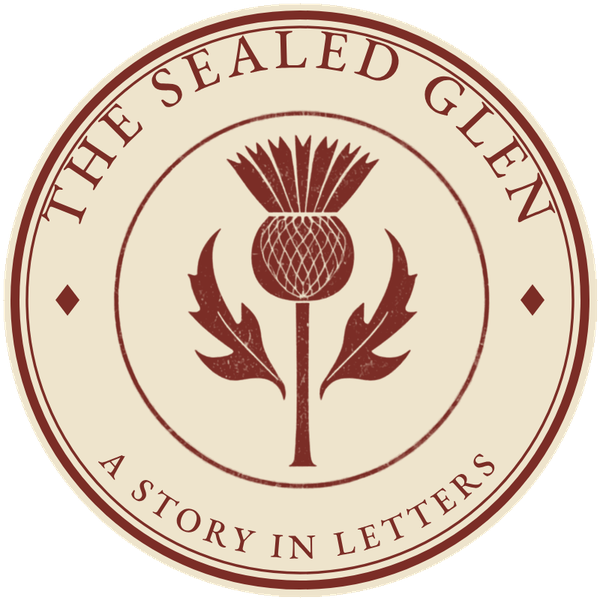
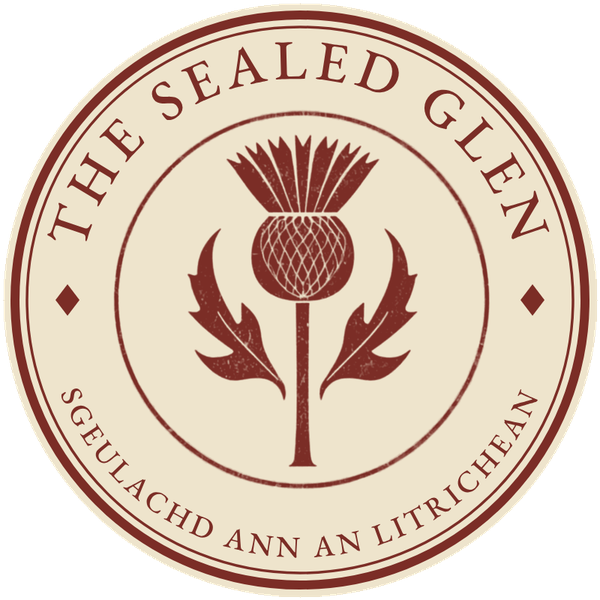
Seal v0.4: lower top text, Gaelic bottom line
Claude-Session: https://claude.ai/code/session_01SzL5mrw7CT4fDQuNJTCdEM

diff --git a/the-sealed-glen.html b/the-sealed-glen.html
@@ -39,7 +39,7 @@
       <p class="sg-endorse">A Knot &amp; Rune series by W. Kroboth</p>
       <p class="lead">A Highland story told the old way: in letters, one envelope a month, through your own mailbox. You read it as the people in it lived it, a little at a time, and never quite sure what the next post will bring.</p>
     </div>
-    <img class="sg-seal" src="assets/sealed-glen-seal.png" alt="The Sealed Glen seal: a Scottish thistle inside a ring reading The Sealed Glen, a story in letters" width="260" height="260">
+    <img class="sg-seal" src="assets/sealed-glen-seal.png" alt="The Sealed Glen seal: a Scottish thistle inside a ring reading The Sealed Glen and, in Gaelic, Sgeulachd ann an Litrichean (a story in letters)" width="260" height="260">
   </div>
 </section>
 

diff --git a/src/the-sealed-glen.html b/src/the-sealed-glen.html
@@ -6,7 +6,7 @@
       <p class="sg-endorse">A Knot &amp; Rune series by W. Kroboth</p>
       <p class="lead">A Highland story told the old way: in letters, one envelope a month, through your own mailbox. You read it as the people in it lived it, a little at a time, and never quite sure what the next post will bring.</p>
     </div>
-    <img class="sg-seal" src="assets/sealed-glen-seal.png" alt="The Sealed Glen seal: a Scottish thistle inside a ring reading The Sealed Glen, a story in letters" width="260" height="260">
+    <img class="sg-seal" src="assets/sealed-glen-seal.png" alt="The Sealed Glen seal: a Scottish thistle inside a ring reading The Sealed Glen and, in Gaelic, Sgeulachd ann an Litrichean (a story in letters)" width="260" height="260">
   </div>
 </section>
 
